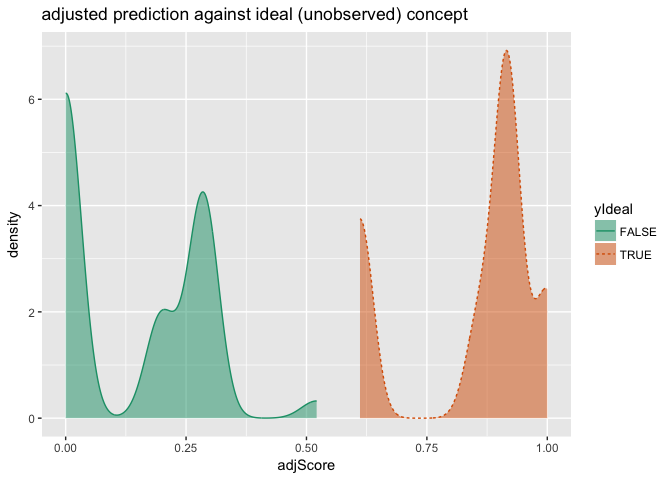
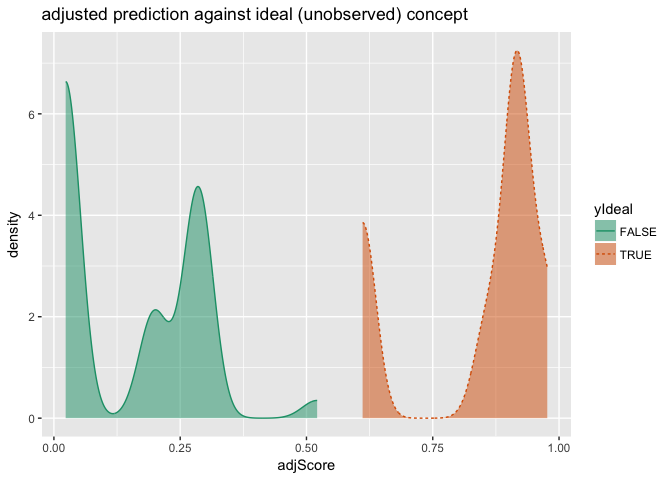
re-run. need to look more into test performance

diff --git a/extras/MonotoneCoder.md b/extras/MonotoneCoder.md
@@ -1,7 +1,7 @@
 Isotone Coding in vtreat
 ================
 John Mount, Win-Vector LLC
-2017-10-16
+2017-10-22
 
 Monotone (or isotone) regression via the [`isotone` package](https://CRAN.R-project.org/package=isotone) (also give [`scam`](https://CRAN.R-project.org/package=scam) and [`gbm` `var.monotone`](https://CRAN.R-project.org/package=gbm) a look, which should have the advantage of also being low complexity).
 
@@ -270,12 +270,17 @@ print(treatments$scoreFrame[, c('varName', 'rsq', 'sig', 'needsSplit'), drop=FAL
     ## 1 rawScore_NonDecreasingV 0.3370146 2.856172e-10       TRUE
     ## 2          rawScore_clean 0.3522417 1.138713e-10      FALSE
 
+``` r
+predictionCollar <- 2/(sum(d$isTrain)-1)
+```
+
 Notice in the score frame `vtreat`'s cross validation based scoring correctly indentifies that the isotone encoding is over-fitting and not in fact better than the sigmoid link function.
 
 ``` r
 # copy fit over to original data frame
 dTreated <- vtreat::prepare(treatments, d)
 d$adjScore <- dTreated$rawScore_NonDecreasingV
+d$adjScore <- pmax(predictionCollar, pmin(1-predictionCollar, d$adjScore))
 d$adjPred <- d$adjScore>=0.5
 
 # and the correct link
@@ -284,20 +289,20 @@ d$linkPred <- d$linkScore>=0.5
 head(d)
 ```
 
-    ##          x yIdeal yObserved isTrain   rawScore  adjScore adjPred linkScore
-    ## 1 3.615347   TRUE      TRUE   FALSE  2.0180394 0.9166667    TRUE 0.8826781
-    ## 2 6.811326   TRUE      TRUE    TRUE -0.1834170 0.6111111    TRUE 0.4542739
-    ## 3 7.173432  FALSE      TRUE   FALSE -0.4328434 0.2857143   FALSE 0.3934475
-    ## 4 9.732597  FALSE     FALSE    TRUE -2.1956494 0.0000000   FALSE 0.1001419
-    ## 5 3.726201   TRUE      TRUE   FALSE  1.9416808 0.9166667    TRUE 0.8745367
-    ## 6 2.197222   TRUE      TRUE   FALSE  2.9948735 0.9166667    TRUE 0.9523420
-    ##   linkPred
-    ## 1     TRUE
-    ## 2    FALSE
-    ## 3    FALSE
-    ## 4    FALSE
-    ## 5     TRUE
-    ## 6     TRUE
+    ##          x yIdeal yObserved isTrain   rawScore   adjScore adjPred
+    ## 1 3.615347   TRUE      TRUE   FALSE  2.0180394 0.91666667    TRUE
+    ## 2 6.811326   TRUE      TRUE    TRUE -0.1834170 0.61111111    TRUE
+    ## 3 7.173432  FALSE      TRUE   FALSE -0.4328434 0.28571429   FALSE
+    ## 4 9.732597  FALSE     FALSE    TRUE -2.1956494 0.02325581   FALSE
+    ## 5 3.726201   TRUE      TRUE   FALSE  1.9416808 0.91666667    TRUE
+    ## 6 2.197222   TRUE      TRUE   FALSE  2.9948735 0.91666667    TRUE
+    ##   linkScore linkPred
+    ## 1 0.8826781     TRUE
+    ## 2 0.4542739    FALSE
+    ## 3 0.3934475    FALSE
+    ## 4 0.1001419    FALSE
+    ## 5 0.8745367     TRUE
+    ## 6 0.9523420     TRUE
 
 ``` r
 dTest <- d[!d$isTrain, , drop=FALSE]
@@ -309,7 +314,7 @@ dTest <- d[!d$isTrain, , drop=FALSE]
 sigr::wrapChiSqTest(dTest, 'adjScore', 'yObserved')
 ```
 
-    ## [1] "Chi-Square Test summary: pseudo-R2=-0.29 (X2(1,N=113)=-41, p=n.s.)."
+    ## [1] "Chi-Square Test summary: pseudo-R2=0.14 (X2(1,N=113)=19, p=1.3e-05)."
 
 ``` r
 WVPlots::DoubleDensityPlot(dTest, 'adjScore', 'yObserved',
@@ -339,7 +344,7 @@ WVPlots::DoubleDensityPlot(dTest, 'linkScore', 'yObserved',
 sigr::wrapChiSqTest(dTest, 'adjScore', 'yIdeal')
 ```
 
-    ## [1] "Chi-Square Test summary: pseudo-R2=0.72 (X2(1,N=113)=1.1e+02, p<1e-05)."
+    ## [1] "Chi-Square Test summary: pseudo-R2=0.71 (X2(1,N=113)=1e+02, p<1e-05)."
 
 ``` r
 WVPlots::DoubleDensityPlot(dTest, 'adjScore', 'yIdeal',
